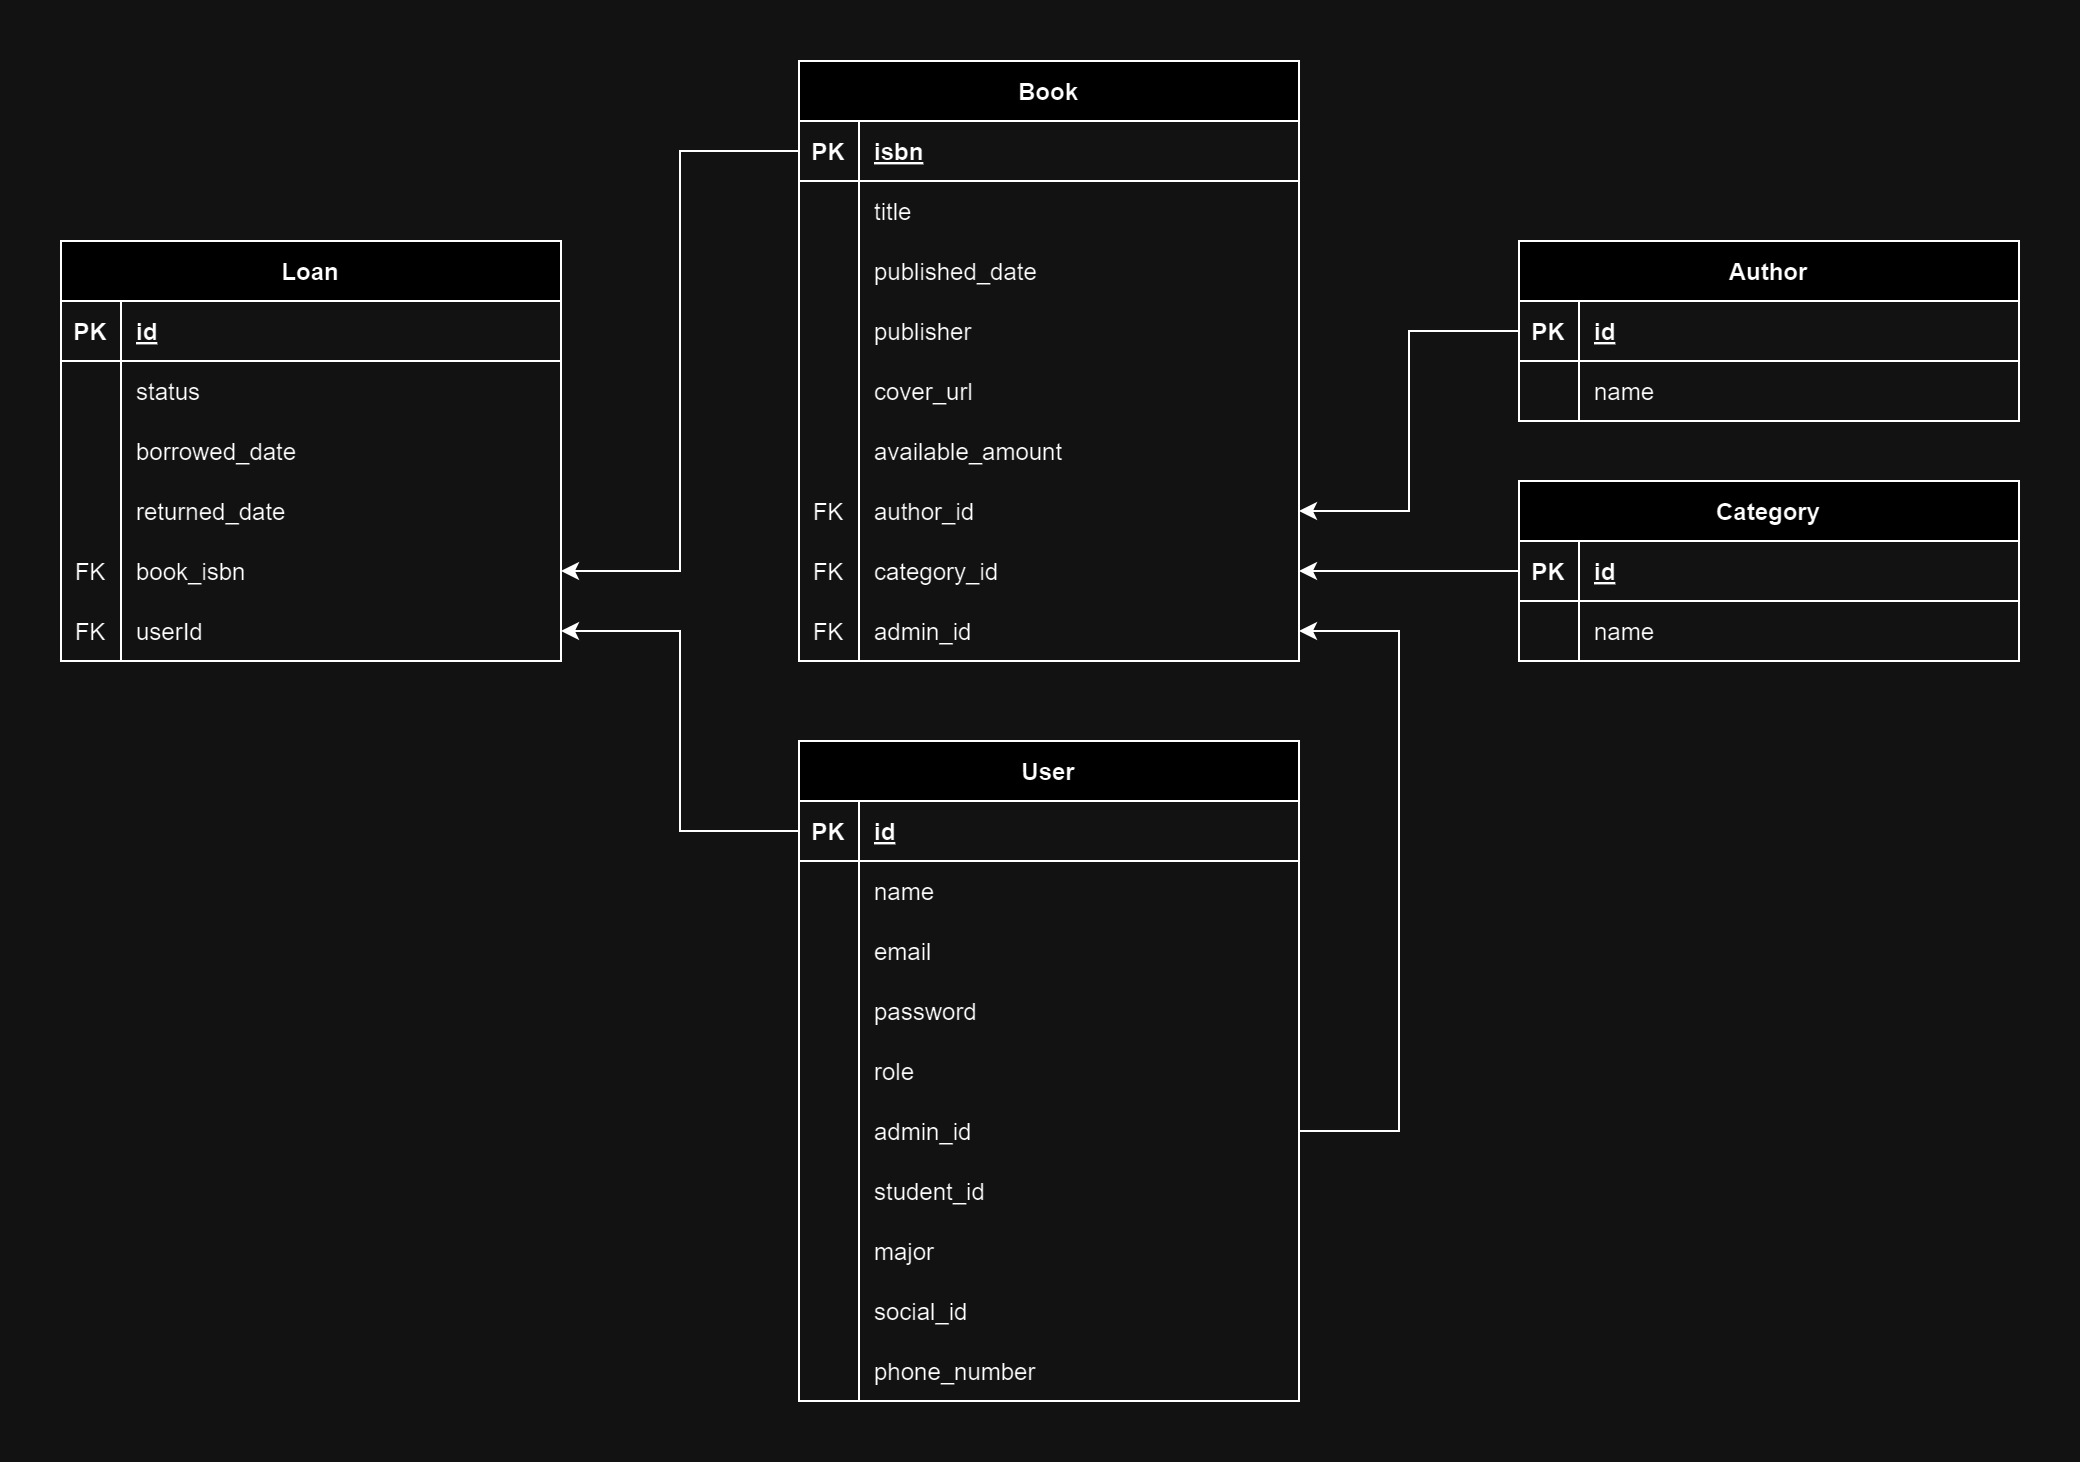
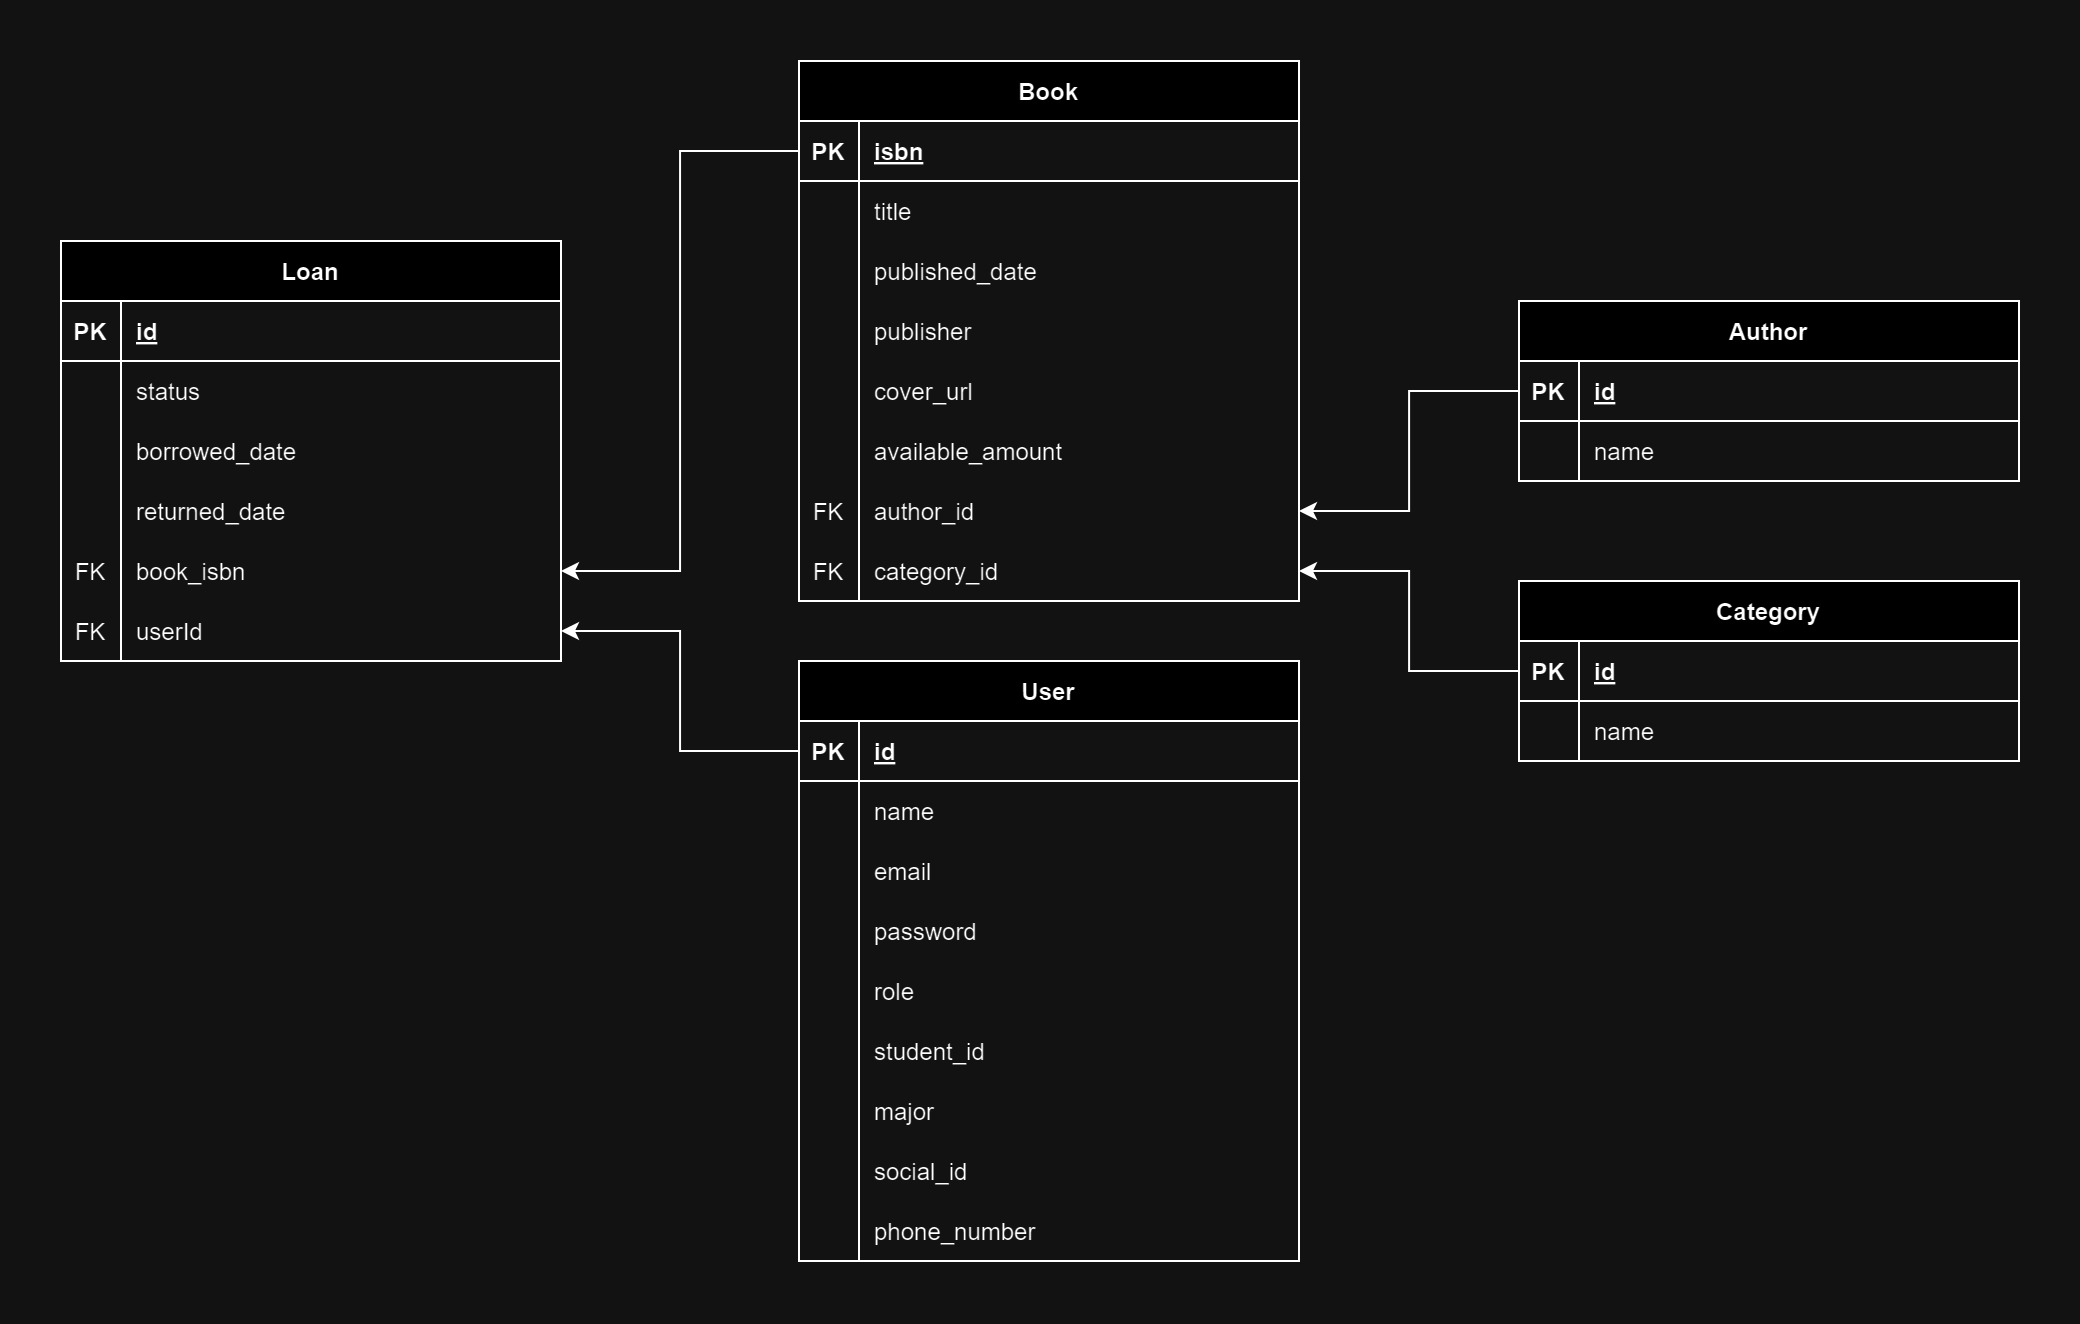
refactor: remove Author and Category classes, update Book class to use String lists for authors and categories

diff --git a/src/main/java/app/libmgmt/model/Book.java b/src/main/java/app/libmgmt/model/Book.java
@@ -10,15 +10,11 @@ public class Book {
     private String publisher;
     private String coverUrl;
     private int availableCopies;
-    private List<Author> authors;
-    private List<Category> categories;
-    private Admin admin;
-
-    public Book() {
-    }
+    private List<String> authors;
+    private List<String> categories;
 
     public Book(String isbn, String title, Date publishedDate, String publisher, String coverUrl, int availableCopies,
-            List<Author> authors, List<Category> categories, Admin admin) {
+            List<String> authors, List<String> categories) {
         this.isbn = isbn;
         this.title = title;
         this.publishedDate = publishedDate;
@@ -27,7 +23,6 @@ public class Book {
         this.availableCopies = availableCopies;
         this.authors = authors;
         this.categories = categories;
-        this.admin = admin;
     }
 
     public String getIsbn() {
@@ -74,11 +69,11 @@ public class Book {
         this.availableCopies = availableCopies;
     }
 
-    public List<Author> getAuthors() {
+    public List<String> getAuthors() {
         return authors;
     }
 
-    public List<Category> getCategories() {
+    public List<String> getCategories() {
         return categories;
     }
 }
